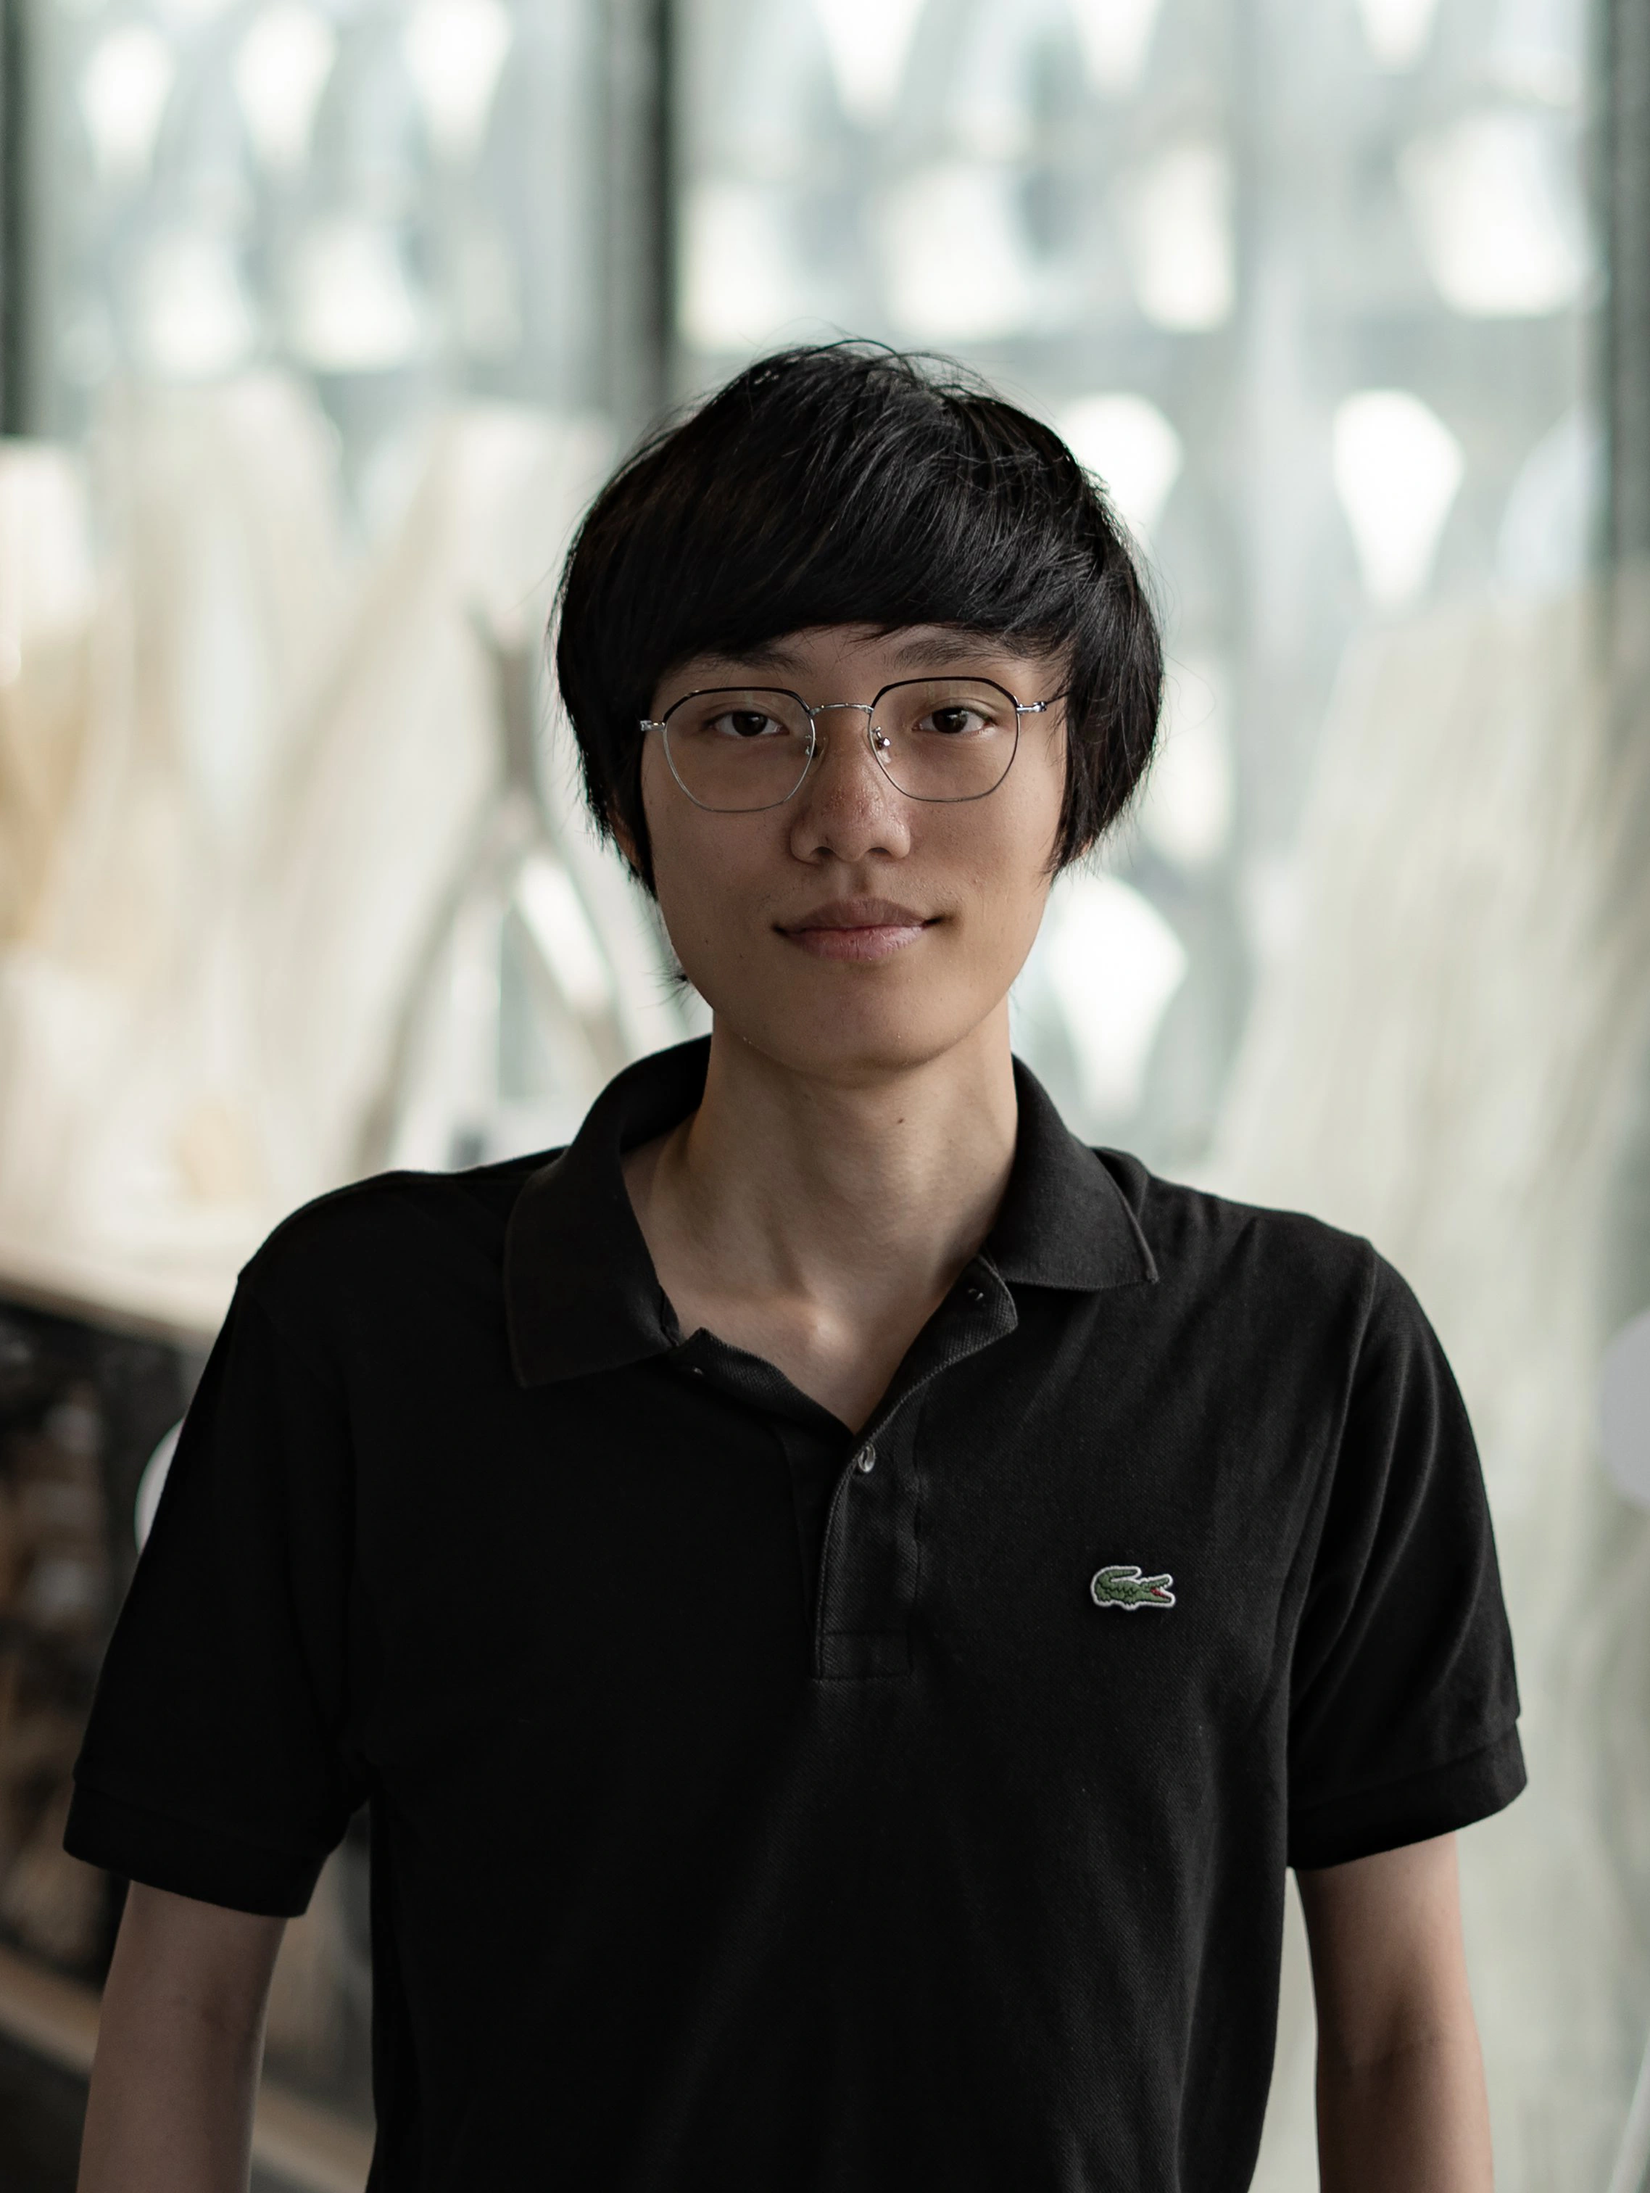
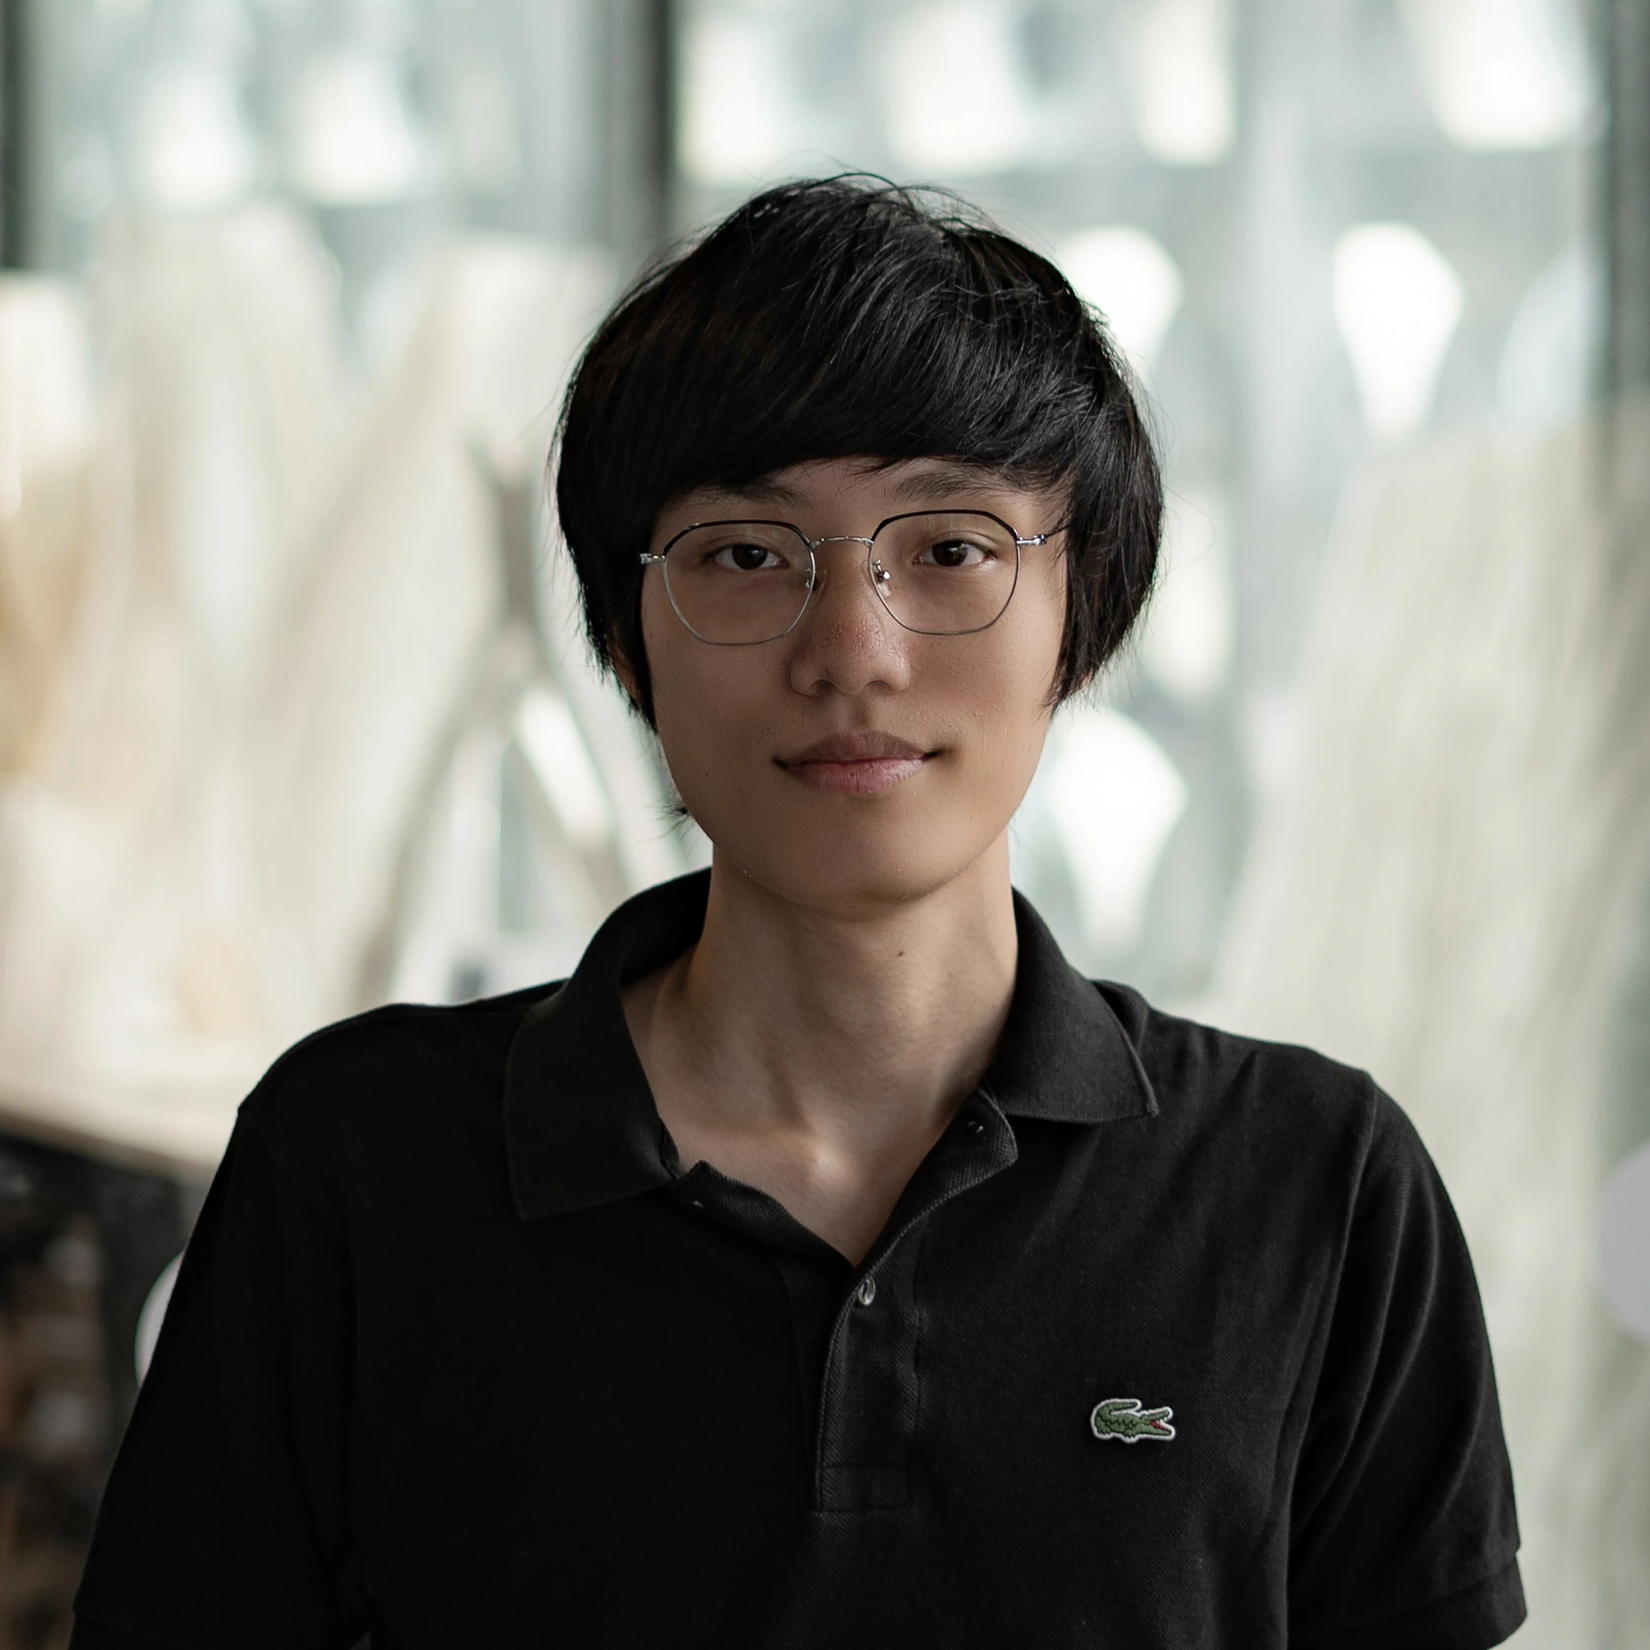
chore: crop portrait to 1:1

diff --git a/components/section/about.jsx b/components/section/about.jsx
@@ -1,6 +1,5 @@
 import React from "react";
 import profile from "@/data/profile.json";
-import Image from "next/image";
 import { buttonVariants } from "../ui/buttons/button";
 import { GitHubLogoIcon, InstagramLogoIcon } from "@radix-ui/react-icons";
 import { IoLogoYoutube } from "react-icons/io5";
@@ -12,19 +11,20 @@ const About = () => {
     <div id="about">
       <section className="flex flex-col justify-center items-center h-screen w-full">
         <div className=" grid grid-cols-1 md:grid-cols-2 items-center gap-4">
-          <div className="max-w-2xl w-full px-4 text-center">
+          <div className="max-w-2xl w-full flex justify-center">
             <BlurImage
               src={profile.image.src}
               alt={profile.image.alt}
               style={{ width: "auto", objectFit: "cover", objectPosition: "bottom" }}
               className="rounded-xl"
-              width={500}
-              height={500}
+              width={400}
+              height={350}
             />
           </div>
-          <div className="max-w-2xl w-full px-4 text-center">
+          <div className="max-w-2xl w-full px-4 flex flex-col gap-3">
+            <h2 className="text-4xl font-bold">ZEKE ZHANG</h2>
             <p>{profile.about}</p>
-            <div className="py-4 gap-9 flex justify-center">
+            <div className="py-4 gap-9 flex justify-left">
               <Link href={profile.social.github} className={buttonVariants({ variant: "ghost" })}>
                 <GitHubLogoIcon />
               </Link>
